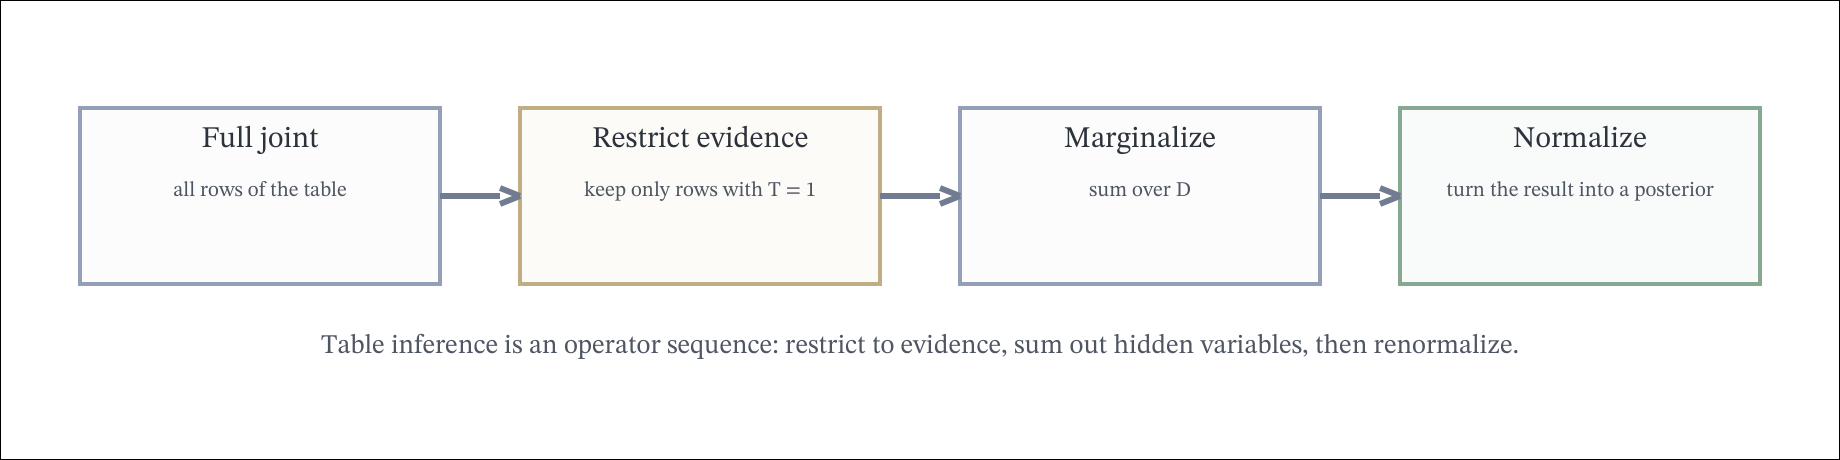
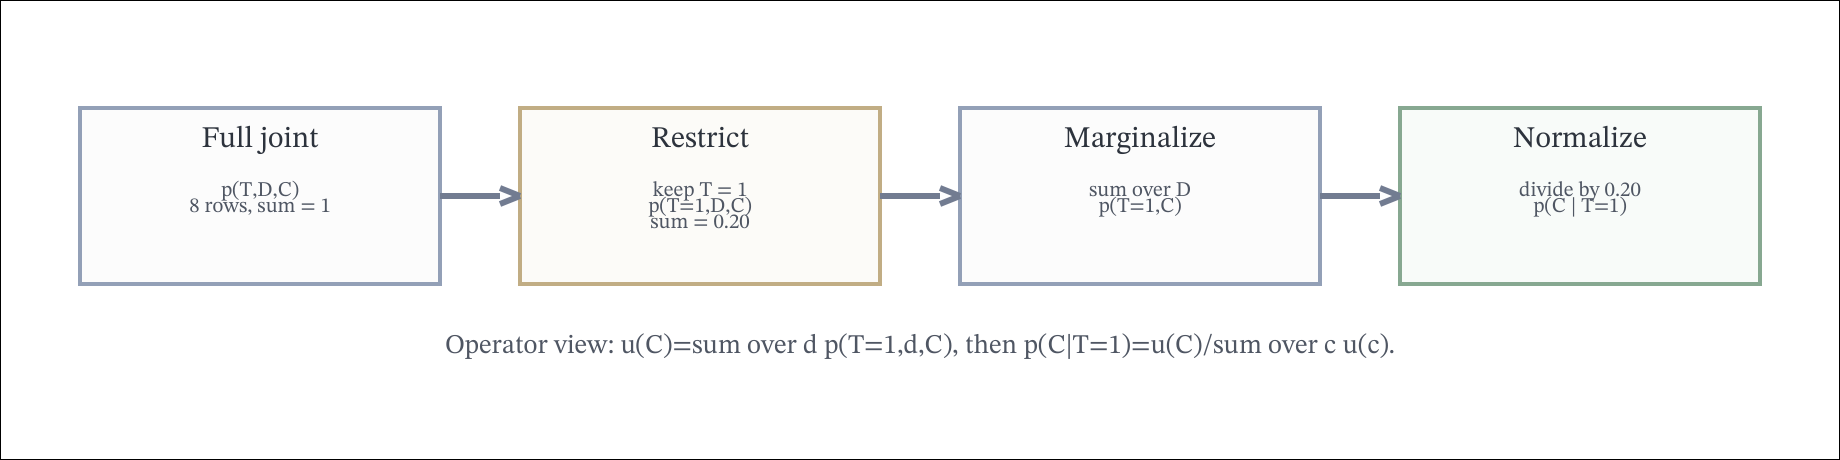
Expand table-based Bayes computation explanation

diff --git a/scripts/notes/build_02_probability_reconstructed.py b/scripts/notes/build_02_probability_reconstructed.py
@@ -1040,10 +1040,10 @@ def write_table_update_pipeline_assets(assets_dir: Path) -> None:
                 '  rankdir=LR;',
                 '  node [shape=box, style="rounded,filled", fillcolor="#f6f8fc", color="#8ea1c2", fontname="Helvetica"];',
                 '  edge [color="#7d8fb2", penwidth=1.3, arrowsize=0.8];',
-                '  joint [label="Full joint\\np(T,D,C)"];',
-                '  restrict [label="Restrict evidence\\nkeep rows with T = 1"];',
-                '  marginal [label="Marginalize\\nsum over D"];',
-                '  normalize [label="Normalize\\nobtain p(C | T = 1)"];',
+                '  joint [label="Full joint\\np(T,D,C)\\n8 rows, sum = 1"];',
+                '  restrict [label="Restrict\\nkeep T = 1\\np(T=1,D,C)"];',
+                '  marginal [label="Marginalize\\nsum over D\\np(T=1,C)"];',
+                '  normalize [label="Normalize\\ndivide by p(T=1)\\np(C | T = 1)"];',
                 '  joint -> restrict -> marginal -> normalize;',
                 "}",
                 "",
@@ -1059,10 +1059,10 @@ def write_table_update_pipeline_assets(assets_dir: Path) -> None:
     insert_fonts(page, include_diagram=True)
 
     boxes = [
-        (40, 54, 220, 142, "Full joint", "all rows of the table", DIAGRAM_NEUTRAL_FILL, DIAGRAM_NEUTRAL_STROKE),
-        (260, 54, 440, 142, "Restrict evidence", "keep only rows with T = 1", DIAGRAM_WARM_FILL, DIAGRAM_WARM_STROKE),
-        (480, 54, 660, 142, "Marginalize", "sum over D", DIAGRAM_NEUTRAL_FILL, DIAGRAM_NEUTRAL_STROKE),
-        (700, 54, 880, 142, "Normalize", "turn the result into a posterior", DIAGRAM_ACCENT_FILL, DIAGRAM_ACCENT_STROKE),
+        (40, 54, 220, 142, "Full joint", "p(T,D,C)\n8 rows, sum = 1", DIAGRAM_NEUTRAL_FILL, DIAGRAM_NEUTRAL_STROKE),
+        (260, 54, 440, 142, "Restrict", "keep T = 1\np(T=1,D,C)\nsum = 0.20", DIAGRAM_WARM_FILL, DIAGRAM_WARM_STROKE),
+        (480, 54, 660, 142, "Marginalize", "sum over D\np(T=1,C)", DIAGRAM_NEUTRAL_FILL, DIAGRAM_NEUTRAL_STROKE),
+        (700, 54, 880, 142, "Normalize", "divide by 0.20\np(C | T=1)", DIAGRAM_ACCENT_FILL, DIAGRAM_ACCENT_STROKE),
     ]
     for x0, y0, x1, y1, title, subtitle, fill, stroke in boxes:
         _draw_labeled_box(page, fitz.Rect(x0, y0, x1, y1), title, subtitle, fill, stroke)
@@ -1072,7 +1072,7 @@ def write_table_update_pipeline_assets(assets_dir: Path) -> None:
 
     page.insert_textbox(
         fitz.Rect(56, 166, 864, 204),
-        "Table inference is an operator sequence: restrict to evidence, sum out hidden variables, then renormalize.",
+        "Operator view: u(C)=sum over d p(T=1,d,C), then p(C|T=1)=u(C)/sum over c u(c).",
         fontname="diagram",
         fontfile=str(DIAGRAM_FONT_FILES["diagram"]),
         fontsize=13.5,

diff --git a/02_probability_main/README.md b/02_probability_main/README.md
@@ -529,7 +529,13 @@ In this example, the prior disease probability is $p(D=1)=0.01$, which is $1\%$.
 
 ### Example 2-6: Table-Based Computation
 
-The same Bayes update can be done by manipulating tables directly. Start with the full table of $p(T,D,C)$, extract the subtable where $T=1$, sum over $D$, then normalize.
+The same Bayes update can be done by manipulating tables directly. The goal is to compute the posterior distribution $p(C \mid T=1)$, meaning "how likely is a cavity after we observe toothache."
+
+The table view is easiest to understand if we write the target posterior in a way that matches the three operations we will perform:
+
+$$p(C \mid T=1)=\frac{\sum_d p(T=1,d,C)}{\sum_{c,d} p(T=1,d,c)}.$$
+
+The numerator $\sum_d p(T=1,d,C)$ means: fix the evidence $T=1$, then sum out the hidden variable $D$ to obtain a joint table over $(T=1,C)$. The denominator $\sum_{c,d} p(T=1,d,c)$ is the total probability of the evidence $T=1$, also called the evidence or normalization constant. Dividing by that constant is what turns the remaining nonnegative numbers into a proper posterior distribution that sums to $1$ over the possible cavity states.
 
 ![Restriction, marginalization, and normalization pipeline](../notes/02_probability_reconstructed/assets/figure_2_table_update_pipeline.png)
 
@@ -542,15 +548,16 @@ The same Bayes update can be done by manipulating tables directly. Start with th
         <table>
           <thead>
             <tr>
-              <th><i>DC</i></th>
+              <th><i>D</i></th>
+              <th><i>C</i></th>
               <th><i>p(T = 1, D, C)</i></th>
             </tr>
           </thead>
           <tbody>
-            <tr><td>00</td><td>0.064</td></tr>
-            <tr><td>01</td><td>0.012</td></tr>
-            <tr><td>10</td><td>0.016</td></tr>
-            <tr><td>11</td><td>0.108</td></tr>
+            <tr><td>0</td><td>0</td><td>0.064</td></tr>
+            <tr><td>0</td><td>1</td><td>0.012</td></tr>
+            <tr><td>1</td><td>0</td><td>0.016</td></tr>
+            <tr><td>1</td><td>1</td><td>0.108</td></tr>
           </tbody>
         </table>
       </td>
@@ -589,9 +596,35 @@ The same Bayes update can be done by manipulating tables directly. Start with th
 </table>
 <!-- table-stack:end -->
 
-This is the same computation as Bayes rule, but expressed as table arithmetic.
+The three tables correspond exactly to three conceptual operations, and every number in them comes from one of three formulas: restriction (copy the consistent rows), marginalization (sum out $D$), and normalization (divide by the evidence total).
 
-The three tables correspond exactly to three conceptual operations. The first table performs restriction by keeping only the rows consistent with the evidence $T=1$. The second table performs marginalization by summing out the hidden variable $D$. The third table performs normalization so the remaining numbers add to one and therefore form a proper posterior distribution over $C$.
+Step 1 (restrict to $T=1$). The first table is the $T=1$ slice of the full joint table $p(T,D,C)$. Each entry is copied directly from the original joint table by keeping only the rows with $T=1$. The total mass of this restricted slice is
+
+$$p(T=1,D=0,C=0)=0.064,\qquad p(T=1,D=0,C=1)=0.012,$$
+
+$$p(T=1,D=1,C=0)=0.016,\qquad p(T=1,D=1,C=1)=0.108,$$
+
+and summing them gives
+
+$$p(T=1)=0.064+0.012+0.016+0.108=0.20.$$
+
+This $0.20$ is the probability that a toothache occurs under the model, before conditioning on anything else. It is also the normalizing constant we will divide by at the end.
+
+Step 2 (marginalize out $D$). To obtain $p(T=1,C)$, add over the two possible values of $D$ for each fixed cavity state:
+
+$$p(T=1,C=0)=p(T=1,D=0,C=0)+p(T=1,D=1,C=0)=0.064+0.016=0.080,$$
+
+$$p(T=1,C=1)=p(T=1,D=0,C=1)+p(T=1,D=1,C=1)=0.012+0.108=0.120.$$
+
+Notice that this intermediate table is still not a conditional distribution over $C$. It is a joint table with $T=1$ fixed, so it sums to $p(T=1)$:
+
+$$0.080+0.120=0.20.$$
+
+Step 3 (normalize). Finally divide by the evidence total $p(T=1)=0.20$ to turn $p(T=1,C)$ into a posterior distribution over $C$:
+
+$$p(C=0 \mid T=1)=\frac{0.080}{0.20}=0.40,\qquad p(C=1 \mid T=1)=\frac{0.120}{0.20}=0.60.$$
+
+Now the two posterior probabilities sum to $1$, as they must. Interpreting the result: after observing toothache, the cavity probability rises from the prior $p(C=1)=0.20$ to the posterior $p(C=1 \mid T=1)=0.60$.
 
 ### Expectation
 
